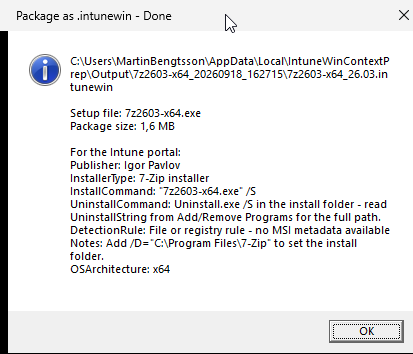
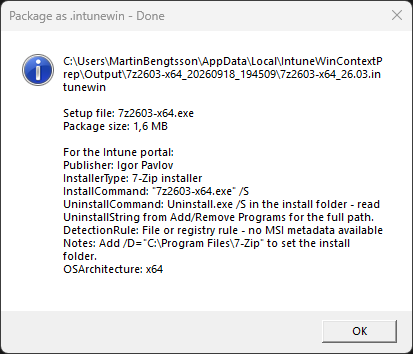
Update README.md for clarity and add done.png image to documentation

diff --git a/README.md b/README.md
@@ -6,26 +6,16 @@ file or a folder and get a finished `.intunewin` package, without opening a cons
 
 The Microsoft [Win32 Content Prep Tool](https://github.com/microsoft/Microsoft-Win32-Content-Prep-Tool)
 does the packaging. This project handles everything around it: locating the source folder, picking
-the setup file, warning about what is about to be swept into the package, and reading the result
-back so you know what to type into the Intune portal afterwards.
+the setup file, warning about what will be included in the package, and reading the result back so
+you know what to type into the Intune portal afterwards.
 
 ![Package as .intunewin in the Explorer context menu](docs/context-menu.png)
 
-## Why package an MSI at all?
-
-Intune accepts a bare `.msi` as a line-of-business app, but Microsoft recommends the
-[Win32 app type for Windows apps](https://learn.microsoft.com/intune/app-management/deployment/win32),
-and the line-of-business type accepts [only one command-line argument](https://learn.microsoft.com/intune/app-management/deployment/add-lob-windows),
-so a transform plus `/qn` already exceeds it.
-
-What the Win32 route costs you is the Program and Requirements pages. Those are the fields this tool
-fills in for you.
-
 ## What it adds on top of IntuneWinAppUtil.exe
 
-- **No path juggling.** Right-click a setup file and its parent folder becomes the source.
-  Right-click a folder and it is used directly. If it holds several setup files you pick one, and the
-  choice is remembered per folder, so the next version is one click.
+- **Paths resolved from what you clicked.** Right-click a setup file and its parent folder becomes
+  the source. Right-click a folder and it is used directly. If it holds several setup files you pick
+  one, and the choice is remembered per folder, so the next version is one click.
 - **A confirmation before anything is packaged.** Everything in the source folder goes into the
   package, so the prompt shows the file count and size, flags personal and system folders, calls out
   existing `.intunewin` files, and warns past the 30 GB limit Intune enforces.
@@ -40,7 +30,7 @@ fills in for you.
   commands, and a detection rule. For an MSI that carries the product code and product version.
 - **Architecture for the requirement rule.** Read from the installer itself and reported as what to
   select under **Operating system architecture**. A 32-bit installer reports `x86, x64`.
-- **Real silent switches for exe installers.** The wrapper identifies which installer built the exe
+- **Silent switches for exe installers.** The wrapper identifies which installer built the exe
   and reports the switches that installer documents.
 
 | Detected as | Install command | Uninstall |
@@ -52,6 +42,8 @@ fills in for you.
 | 7-Zip installer | `/S` | `Uninstall.exe /S`, path from `UninstallString` |
 | MSI | `msiexec /i "<file>" /qn` | `msiexec /x <ProductCode> /qn` |
 | Unknown | File name only | Check after a test install |
+
+Vendor-specific installers are added as they come up.
 
 ## Requirements
 
